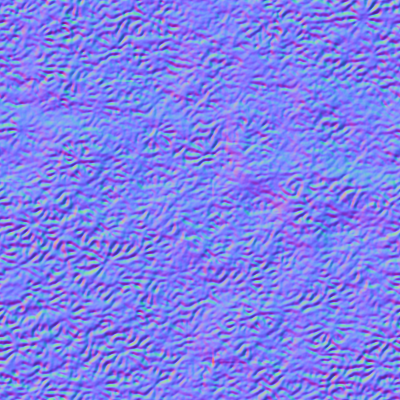
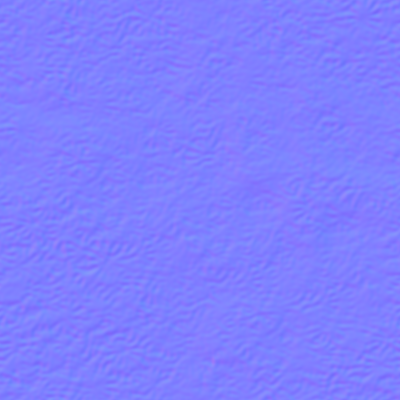
FIX water with DuDv map

diff --git a/src/asset/Material.cpp b/src/asset/Material.cpp
@@ -79,6 +79,7 @@ int Material::loadTextures(const std::string& baseDir)
 	emissionTex = loadTexture(baseDir, map_ke);
 	specularTex = loadTexture(baseDir, map_ks);
 	normalMapTex = loadTexture(baseDir, map_bump);
+	dudvMapTex = loadTexture(baseDir, map_dudv);
 	return 0;
 }
 
@@ -153,6 +154,9 @@ void Material::bindArray(Shader* shader, int index, bool bindTextureIDs)
 	if (normalMapTex) {
 		shader->textures[normalMapTex->unitIndex].set(normalMapTex->unitIndex);
 	}
+	if (dudvMapTex) {
+		shader->textures[dudvMapTex->unitIndex].set(dudvMapTex->unitIndex);
+	}
 
 	if (bindTextureIDs) {
 		for (auto& x : textures) {
@@ -174,6 +178,7 @@ MaterialUBO Material::toUBO()
 		emissionTex ? emissionTex->unitIndex : -1,
 		specularTex ? specularTex->unitIndex : -1,
 		normalMapTex ? normalMapTex->unitIndex : -1,
+		dudvMapTex ? dudvMapTex->unitIndex : -1,
 
 		pattern,
 

diff --git a/src/SceneLoaderTest.cpp b/src/SceneLoaderTest.cpp
@@ -67,7 +67,7 @@ void SceneLoaderTest::setup()
 
 	setupTerrain();
 
-	setupWaterBottom();
+	//setupWaterBottom();
 	setupWaterSurface();
 
 	setupNodeSkybox();
@@ -77,7 +77,7 @@ void SceneLoaderTest::setup()
 	//setupNodeDragon();
 	setupNodeSpaceShuttle();
 
-	setupViewport1();
+	//setupViewport1();
 
 	setupLightDirectional();
 	setupLightMoving();
@@ -826,7 +826,8 @@ void SceneLoaderTest::setupWaterSurface()
 		material->kd = glm::vec4(0.1f, 0.1f, 0.9f, 1.f);
 		material->map_kd = "CD3B_Water 1_HI.PNG";
 		material->map_bump = "CD3B_Water 1_HI_normal_surface.PNG";
-		material->tiling = 8;
+		material->map_dudv = "waterDUDV.png";
+		material->tiling = 6;
 		material->textureSpec.mode = GL_REPEAT;
 		//		material->pattern = 1;
 		material->loadTextures(assets.modelsDir);

diff --git a/src/asset/Material.h b/src/asset/Material.h
@@ -92,6 +92,7 @@ public:
     BoundTexture* emissionTex = nullptr;
     BoundTexture* specularTex = nullptr;
     BoundTexture* normalMapTex = nullptr;
+    BoundTexture* dudvMapTex = nullptr;
 
     std::vector<BoundTexture*> textures;
 
@@ -142,6 +143,7 @@ public:
     // 10. Casts shadows onto invisible surfaces
     int illum = 0;
 
+    std::string map_dudv = "";
 private:
     bool loaded = false;
 };

diff --git a/src/scene/Scene.cpp b/src/scene/Scene.cpp
@@ -79,8 +79,8 @@ void Scene::prepare()
 	}
 
 	//registry.addViewPort(shadowMapRenderer->debugViewport);
-	registry.addViewPort(waterMapRenderer->reflectionDebugViewport);
-	registry.addViewPort(waterMapRenderer->refractionDebugViewport);
+	//registry.addViewPort(waterMapRenderer->reflectionDebugViewport);
+	//registry.addViewPort(waterMapRenderer->refractionDebugViewport);
 }
 
 

diff --git a/src/asset/UBO.h b/src/asset/UBO.h
@@ -124,6 +124,7 @@ struct MaterialUBO {
 	int emissionTex;
 	int specularTex;
 	int normalMap;
+	int dudvMap;
 
 	int pattern;
 
@@ -134,7 +135,6 @@ struct MaterialUBO {
 	float tiling;
 
 	int pad1;
-	int pad2;
 };
 
 // NOTE KI align 16
